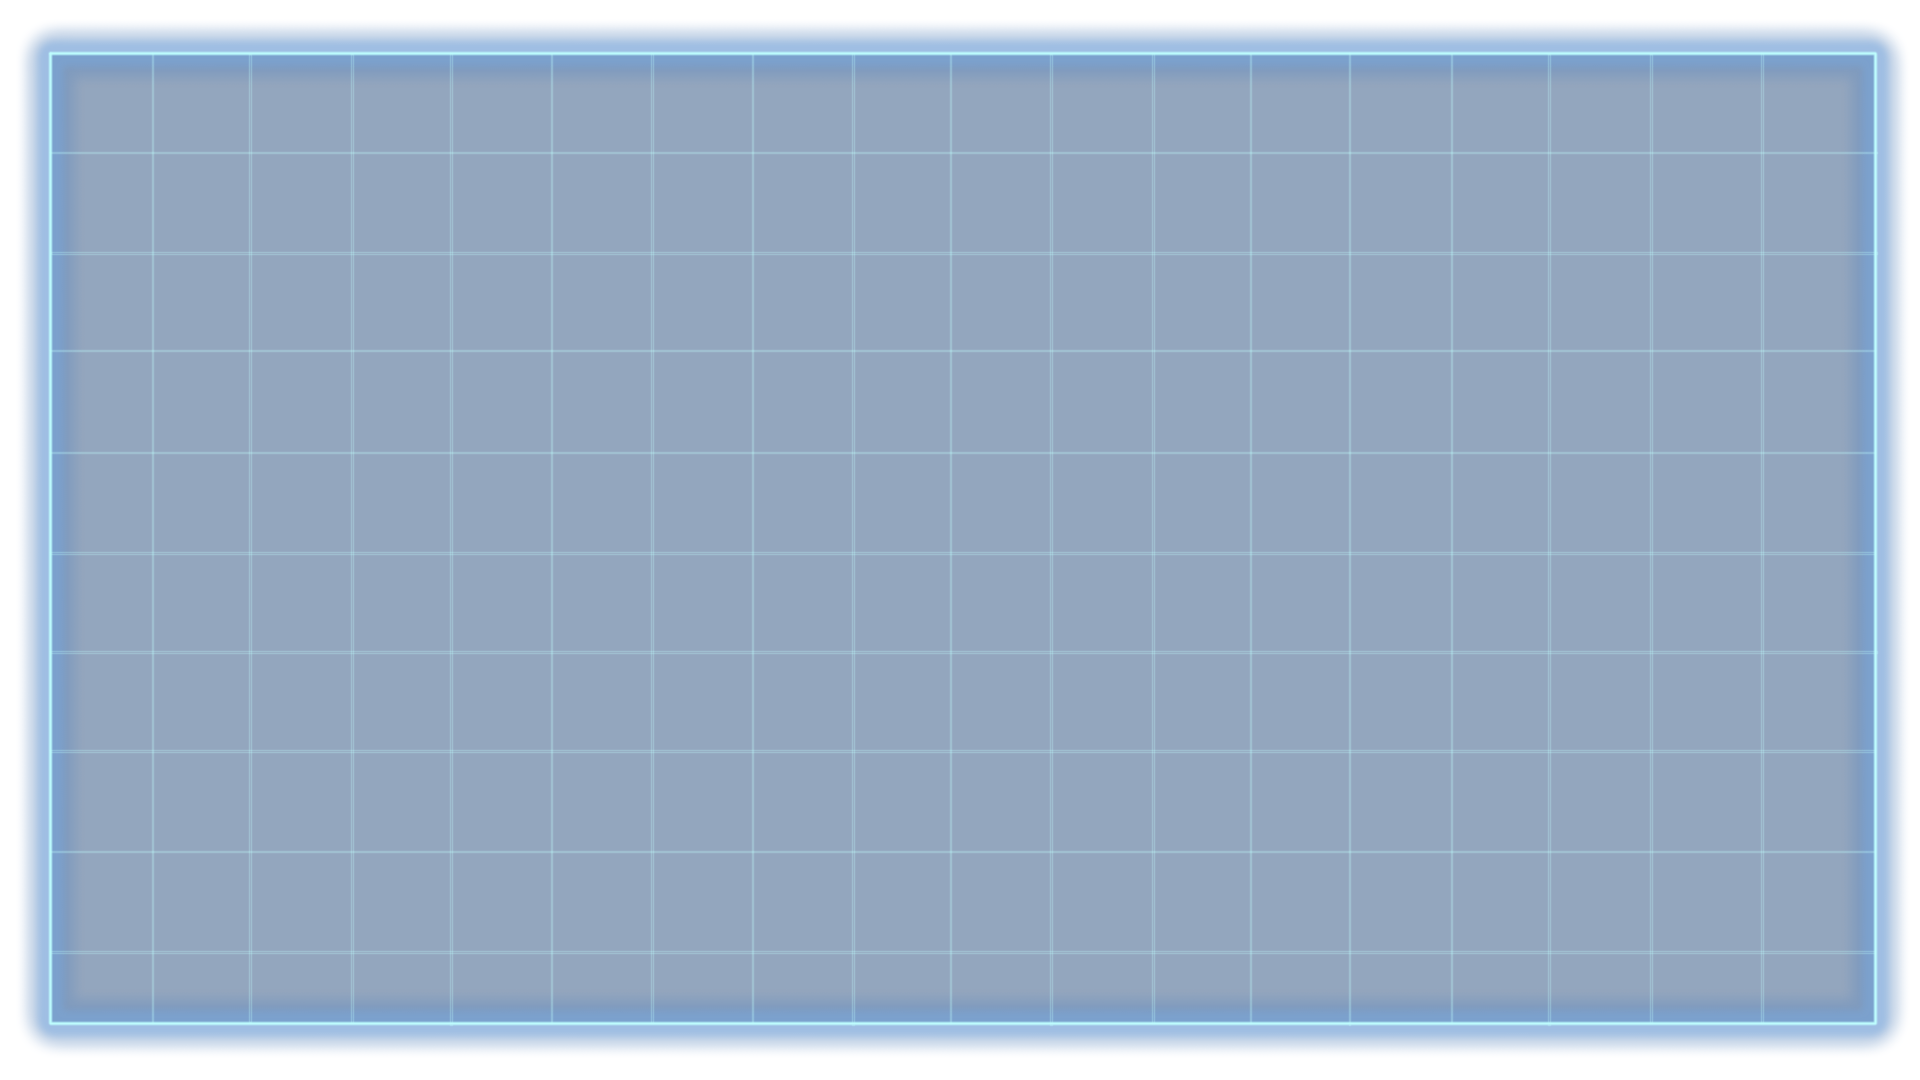
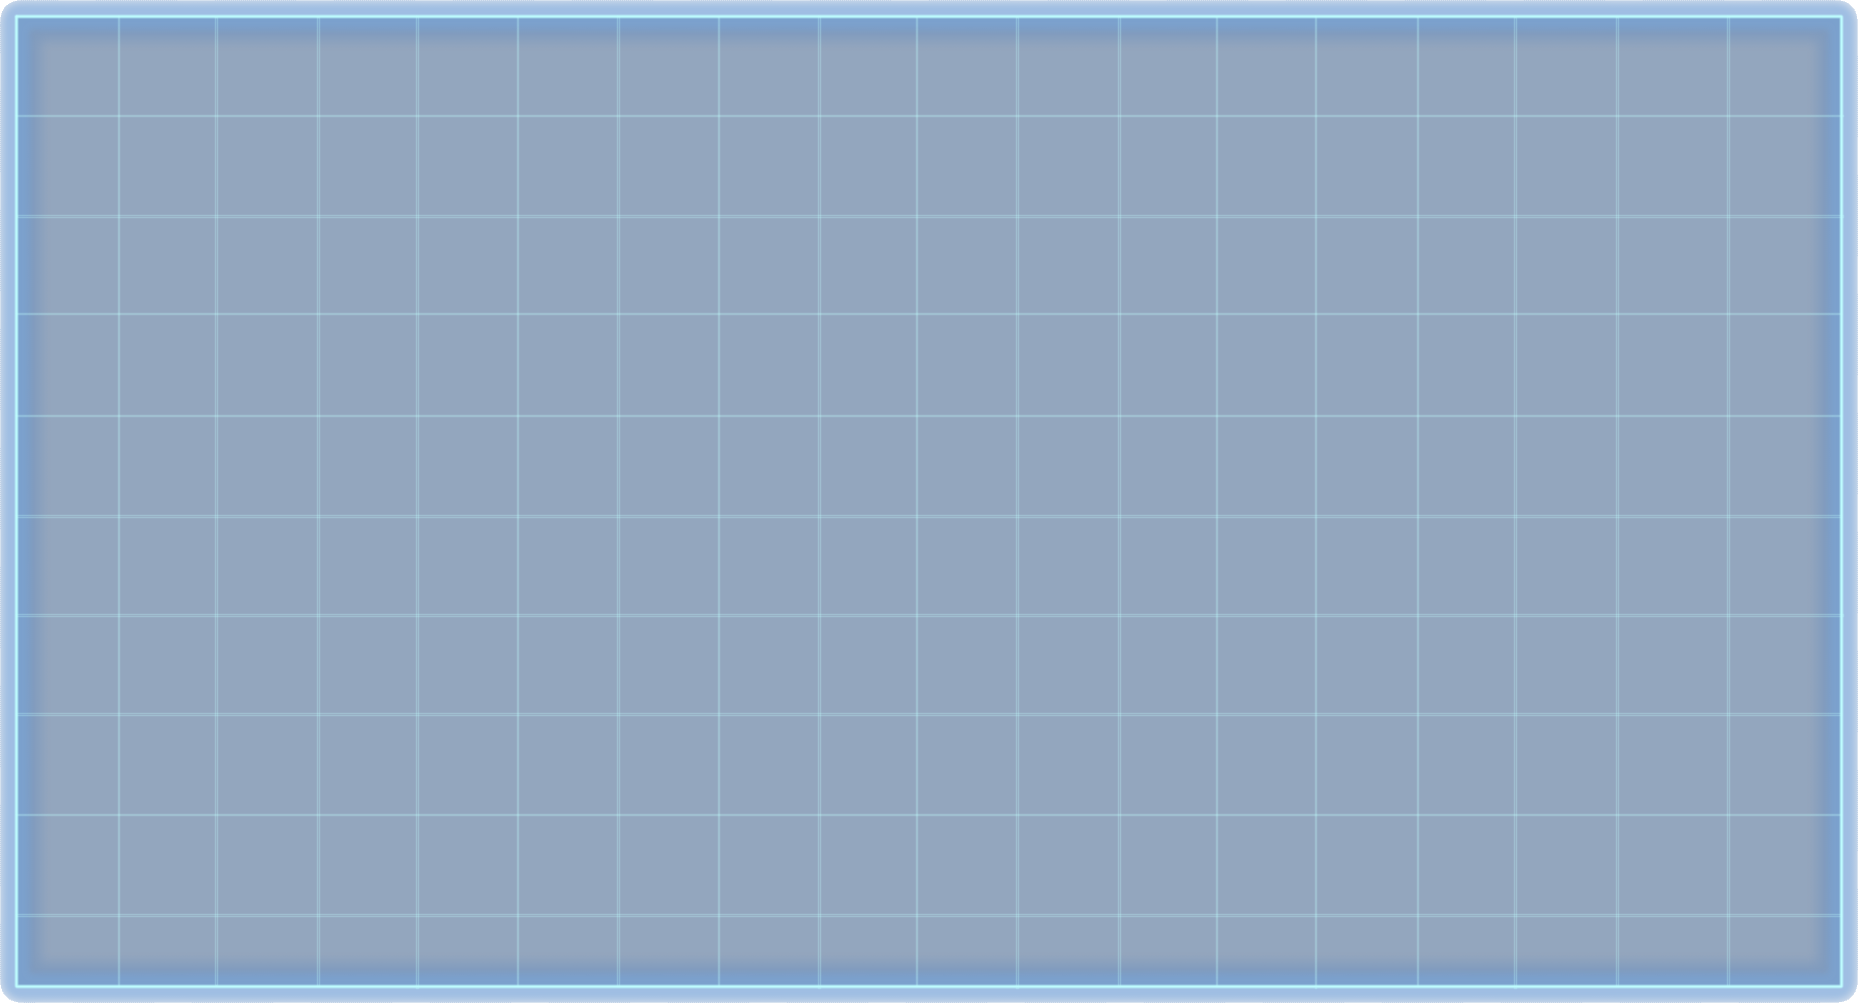
Modified some styling.

diff --git a/static/css/main.css b/static/css/main.css
@@ -12,11 +12,14 @@ body {
 }
 
 .mainDiv {
-	background-image: url("../img/sw_back.png");
-	background-size: 100% 100%;
-	background-repeat: no-repeat;
 	height: 80vh;
 	position: relative;
+}
+
+.sw_back {
+	background-image: url("../img/sw_back.png");
+	background-size: 100% 100%;
+	background-repeat: round;
 }
 
 .headDiv {
@@ -126,16 +129,33 @@ body {
 }
 
 .page {
-	margin-left: 3vw;
-	margin-right: 3vw;
+	z-index: 0;
+	height: 80vh;
+	padding-left: 3vw;
+	padding-right: 3vw;
+	margin-top: 4vh;
+}
+
+.page_wrap {
+	height: 80vh;
 }
 
 .tab_header {
-	margin-top: 5vh;
 	position: absolute;
-	z-index: 2;
+	top: -.5em;
+	z-index: -2;
 	font-size: 1.5em;
-	border-bottom: 2px;
+	transition: all 500ms ease;
+	-webkit-transition: all 500ms ease;
+	-moz-transition: all 500ms ease;
+	padding: .5em 2em .5em 2em;
+	margin-left: 3vw;
+}
+
+.tab_header:hover {
+	-ms-transform: translate(0, -1.25em); /* IE 9 */
+    -webkit-transform: translate(0, -1.25em); /* Safari */
+    transform: translate(0, -1.25em);
 }
 
 .tab {
@@ -157,11 +177,15 @@ body {
 }
 
 .sixty_he{
-	height: 66vh;
-    margin-top: 8vh;
+    margin-top: 3vh;
     float: left;
     width: 100%;
     position: relative;
+}
+
+.innerList {
+	overflow: auto;
+	height: 69vh;
 }
 
 h2 {

diff --git a/controllers/specializations.go b/controllers/specializations.go
@@ -44,7 +44,7 @@ func (this *SpecializationsController) Get() {
     this.ServeJSON()
 }
 
- func (this *SpecializationsController) Add() {
+func (this *SpecializationsController) Add() {
 	var insReq InsSpecReq
 	err := json.Unmarshal(this.Ctx.Input.RequestBody, &insReq)
 	resp := InsSpecResp{Success: false, Error: ""}
